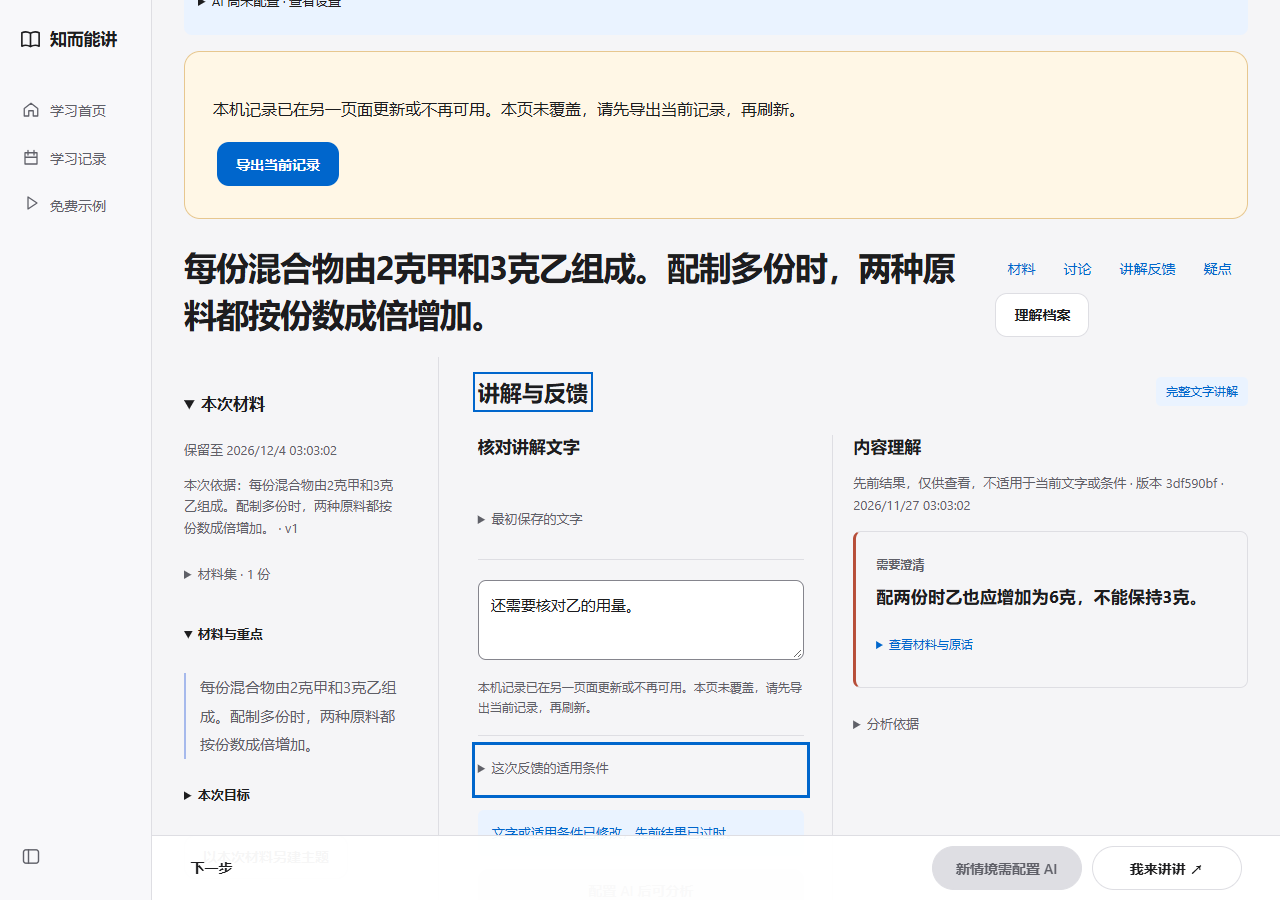
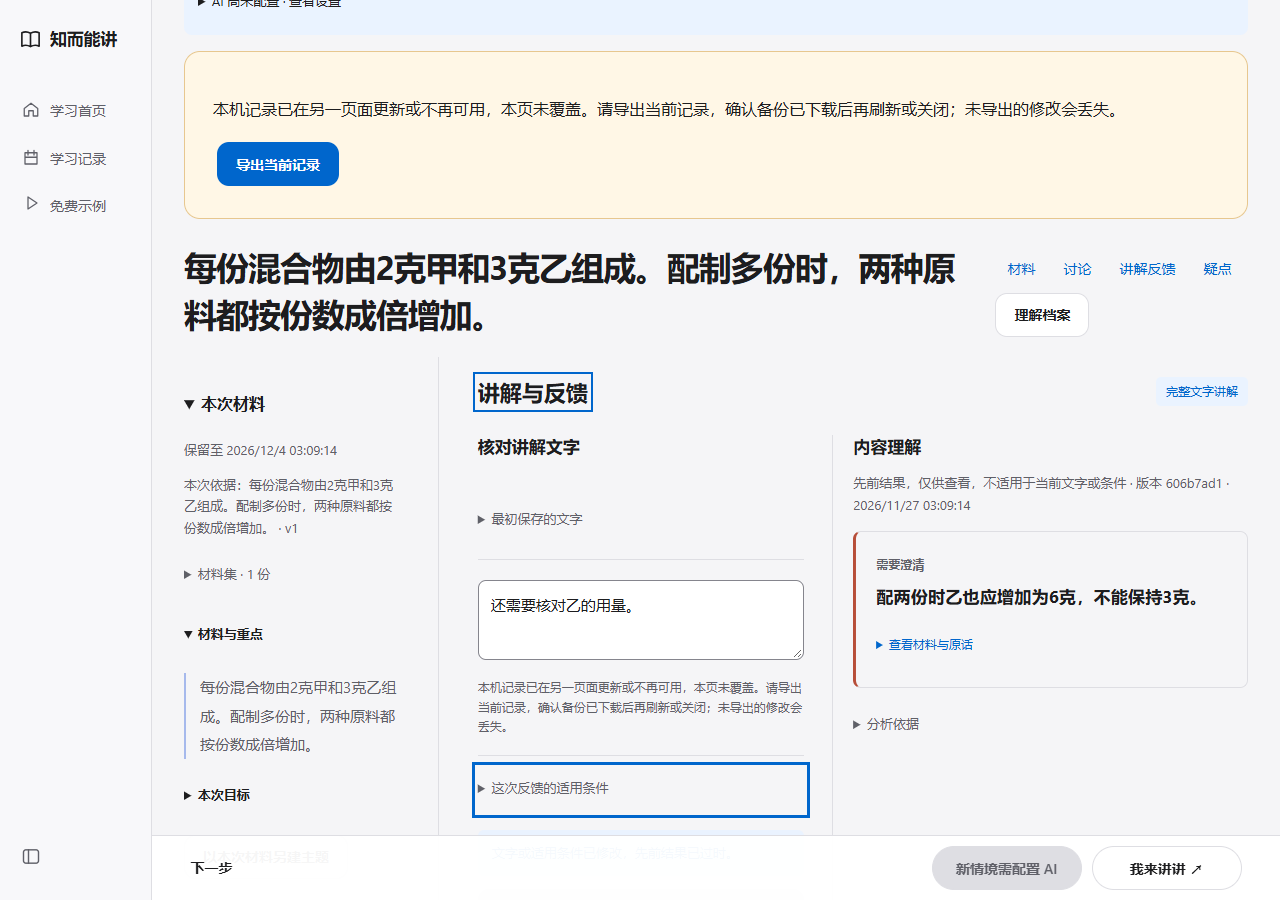
Show recovery when saving a staged copy of the active topic

Changed region(s): [[0.375, 0.7467, 0.625, 0.9333], [0.4688, 0.0933, 0.875, 0.1556], [0.9062, 0.5289, 0.9688, 0.56]]

diff --git a/docs/iterations/2026-11-27-prevent-stale-page-overwrite.md b/docs/iterations/2026-11-27-prevent-stale-page-overwrite.md
@@ -13,3 +13,9 @@
 同一两页签走查修复后，B 屏上保留键入内容、只能导出不盲重试；下载的合成备份内含 B 的核对草稿，A 的同一个首答仍在。B 刷新后恢复 A 已保存的首答。此备份是 B 的本地恢复副本，不表示已经合并到 A。定向 Node 21/21；新增一项浏览器事务回归，检查相同旧基准只能有一个成功写入。无真实模型请求、花费或真实数据。
 
 [冲突实页](v1-experience/stale-page-recovery.png)
+
+## 第一次 CI 审核后的修正
+
+保存材料新版时会先保存同一主题的临时副本。恢复提示按主题 ID 归属，不再要求是同一个 JavaScript 对象；版本比较仍按此次写入所读的旧基准。隔离 Edge 注入普通写入失败后，原材料、已存讲解和编辑草稿保留，恢复区出现并可重试。解除故障后，重试保存草稿，再显式保存新版，结果只新增一个材料版本。
+
+沿原两页签路径，旧页仍不能覆盖或盲重试；能导出未写入的草稿，刷新后原首答 ID 不变。冲突提示明确要求确认备份已下载再刷新或关闭，未导出的修改会丢失。两条走查均无真实模型请求。
